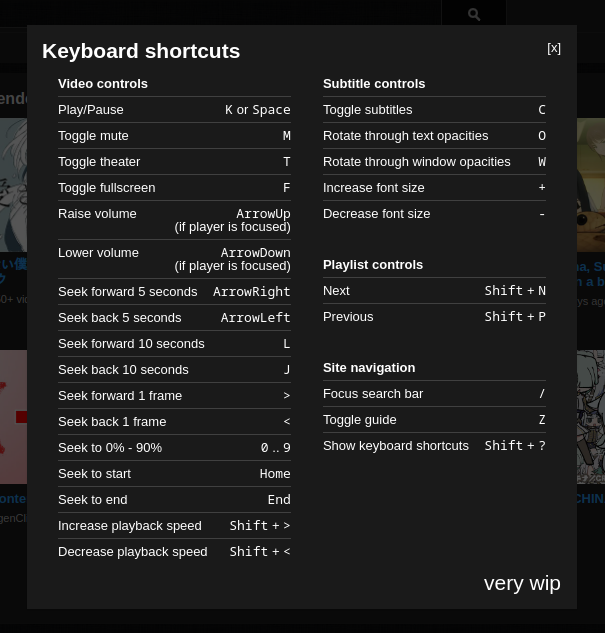
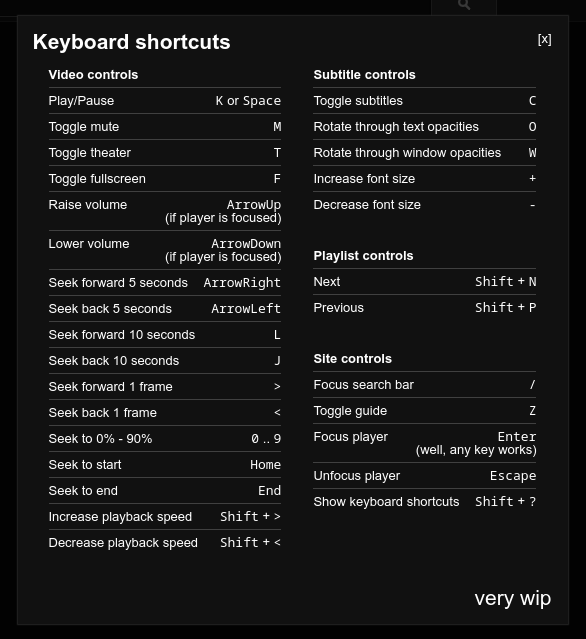
minor navigation tweaks 1.2

diff --git a/v3/minor_navigation_tweaks/v3.user.js b/v3/minor_navigation_tweaks/v3.user.js
@@ -1,9 +1,9 @@
 // ==UserScript==
 // @name         minor navigation tweaks
 // @namespace    https://github.com/macimas
-// @version      1.1
+// @version      1.2
 
-// @description  yep!
+// @description  adds some keybinds for navigation & player
 // @author       macimas (https://macimas.github.io)
 
 // @match        www.youtube.com/*
@@ -47,9 +47,11 @@ const hk_helper_template = {
         "Next": "[Shift] + [N]",
         "Previous": "[Shift] + [P]"
     },
-    "Site navigation": {
+    "Site controls": {
         "Focus search bar": "[/]",
         "Toggle guide": "[Z]",
+        "Focus player": "[Enter]<br>(well, any key works)",
+        "Unfocus player": "[Escape]",
         "Show keyboard shortcuts": "[Shift] + [?]"
     }
 }
@@ -216,7 +218,7 @@ spitfire.append(style);
 
 window.addEventListener("keydown", event => {
     const player = document.querySelector("#movie_player");
-    const play_button = document.querySelector(".ytp-button-play");
+    const play_button = document.querySelector(".ytp-button-play .ytp-button-pause");
     const search_bar = document.querySelector("#masthead-search-term");
 
     const on_body = document.activeElement == document.body;
@@ -224,60 +226,83 @@ window.addEventListener("keydown", event => {
     const on_search_bar = document.activeElement == search_bar;
     const is_focused = (on_body || on_player);
 
+    // toggles helper
+
     if (is_focused && event.code == "Slash" && event.shiftKey) {
         event.preventDefault();
-        return hk_helper_hide("toggle");
+        hk_helper_hide("toggle");
+        return;
     }
 
-    const toggle_guide_button = document.querySelector("#yt-masthead #appbar-guide-button, .guide-module-toggle");
+    // hide helper
 
-    if (is_focused && search_bar && !on_search_bar && event.code == "Slash") {
-        event.preventDefault();
-        return search_bar.focus();
+    if (is_focused && event.code == "Escape") {
+        hk_helper_hide("add");
+        return;
     }
 
-    if (is_focused && toggle_guide_button && event.code == "KeyZ") {
-        event.preventDefault();
-        toggle_guide_button.click();
-    }
+    // ignore keys, let player handle volume
 
     if (event.code == "ArrowUp" || event.code == "ArrowDown") {
         return;
     }
 
-    if (is_focused && event.code == "Escape") {
-        hk_helper_hide("add");
+    // workaround fix for seeking
+
+    if (event.code == "ArrowLeft" && player && !on_player) {
+        player.focus();
+        player.seekBy(-5);
+        return;
     }
 
-    if (player) {
-        if (on_body && event.code != "Escape") {
-            player.focus();
-        }
-
-        if (on_player && event.code == "Escape") {
-            return player.blur();
-        }
+    if (event.code == "ArrowRight" && player && !on_player) {
+        player.focus();
+        player.seekBy(5);
+        return;
     }
 
-    const theater_button = document.querySelector("div.ytp-size-toggle-small, div.ytp-size-toggle-large");
-    const theater_button_is_upsell = document.querySelector("#upsell-video .ytp-size-toggle-large");
+    // toggle guide
 
-    if (is_focused && theater_button && event.code == "KeyT") {
-        theater_button.click();
+    const toggle_guide_button = document.querySelector("#yt-masthead #appbar-guide-button, .guide-module-toggle");
 
-        if (theater_button_is_upsell) {
-            alert("hello! this is the channel trailer speaking! thank you for pressing the theater key! as a reward, you get a pointless button for your work :D")
-        }
+    if (is_focused && search_bar && !on_search_bar && event.code == "Slash") {
+        event.preventDefault();
+        search_bar.focus();
+        return;
     }
+
+    if (is_focused && toggle_guide_button && event.code == "KeyZ") {
+        event.preventDefault();
+        toggle_guide_button.click();
+        return;
+    }
+
+    // navigate playlist
 
     const playlist_bar_prev = document.querySelector("#watch7-playlist-bar-controls .yt-uix-button-icon-playlist-bar-prev");
     const playlist_bar_next = document.querySelector("#watch7-playlist-bar-controls .yt-uix-button-icon-playlist-bar-next");
 
     if (is_focused && playlist_bar_prev && event.code == "KeyP" && event.shiftKey) {
         playlist_bar_prev.click();
+        return;
     }
 
     if (is_focused && playlist_bar_next && event.code == "KeyN" && event.shiftKey) {
         playlist_bar_next.click();
+        return;
+    }
+
+    // handle focusing of player
+
+    if (player) {
+        if (on_body && event.code != "Escape") {
+            player.focus();
+            return;
+        }
+
+        if (on_player && event.code == "Escape") {
+            player.blur();
+            return;
+        }
     }
 });
